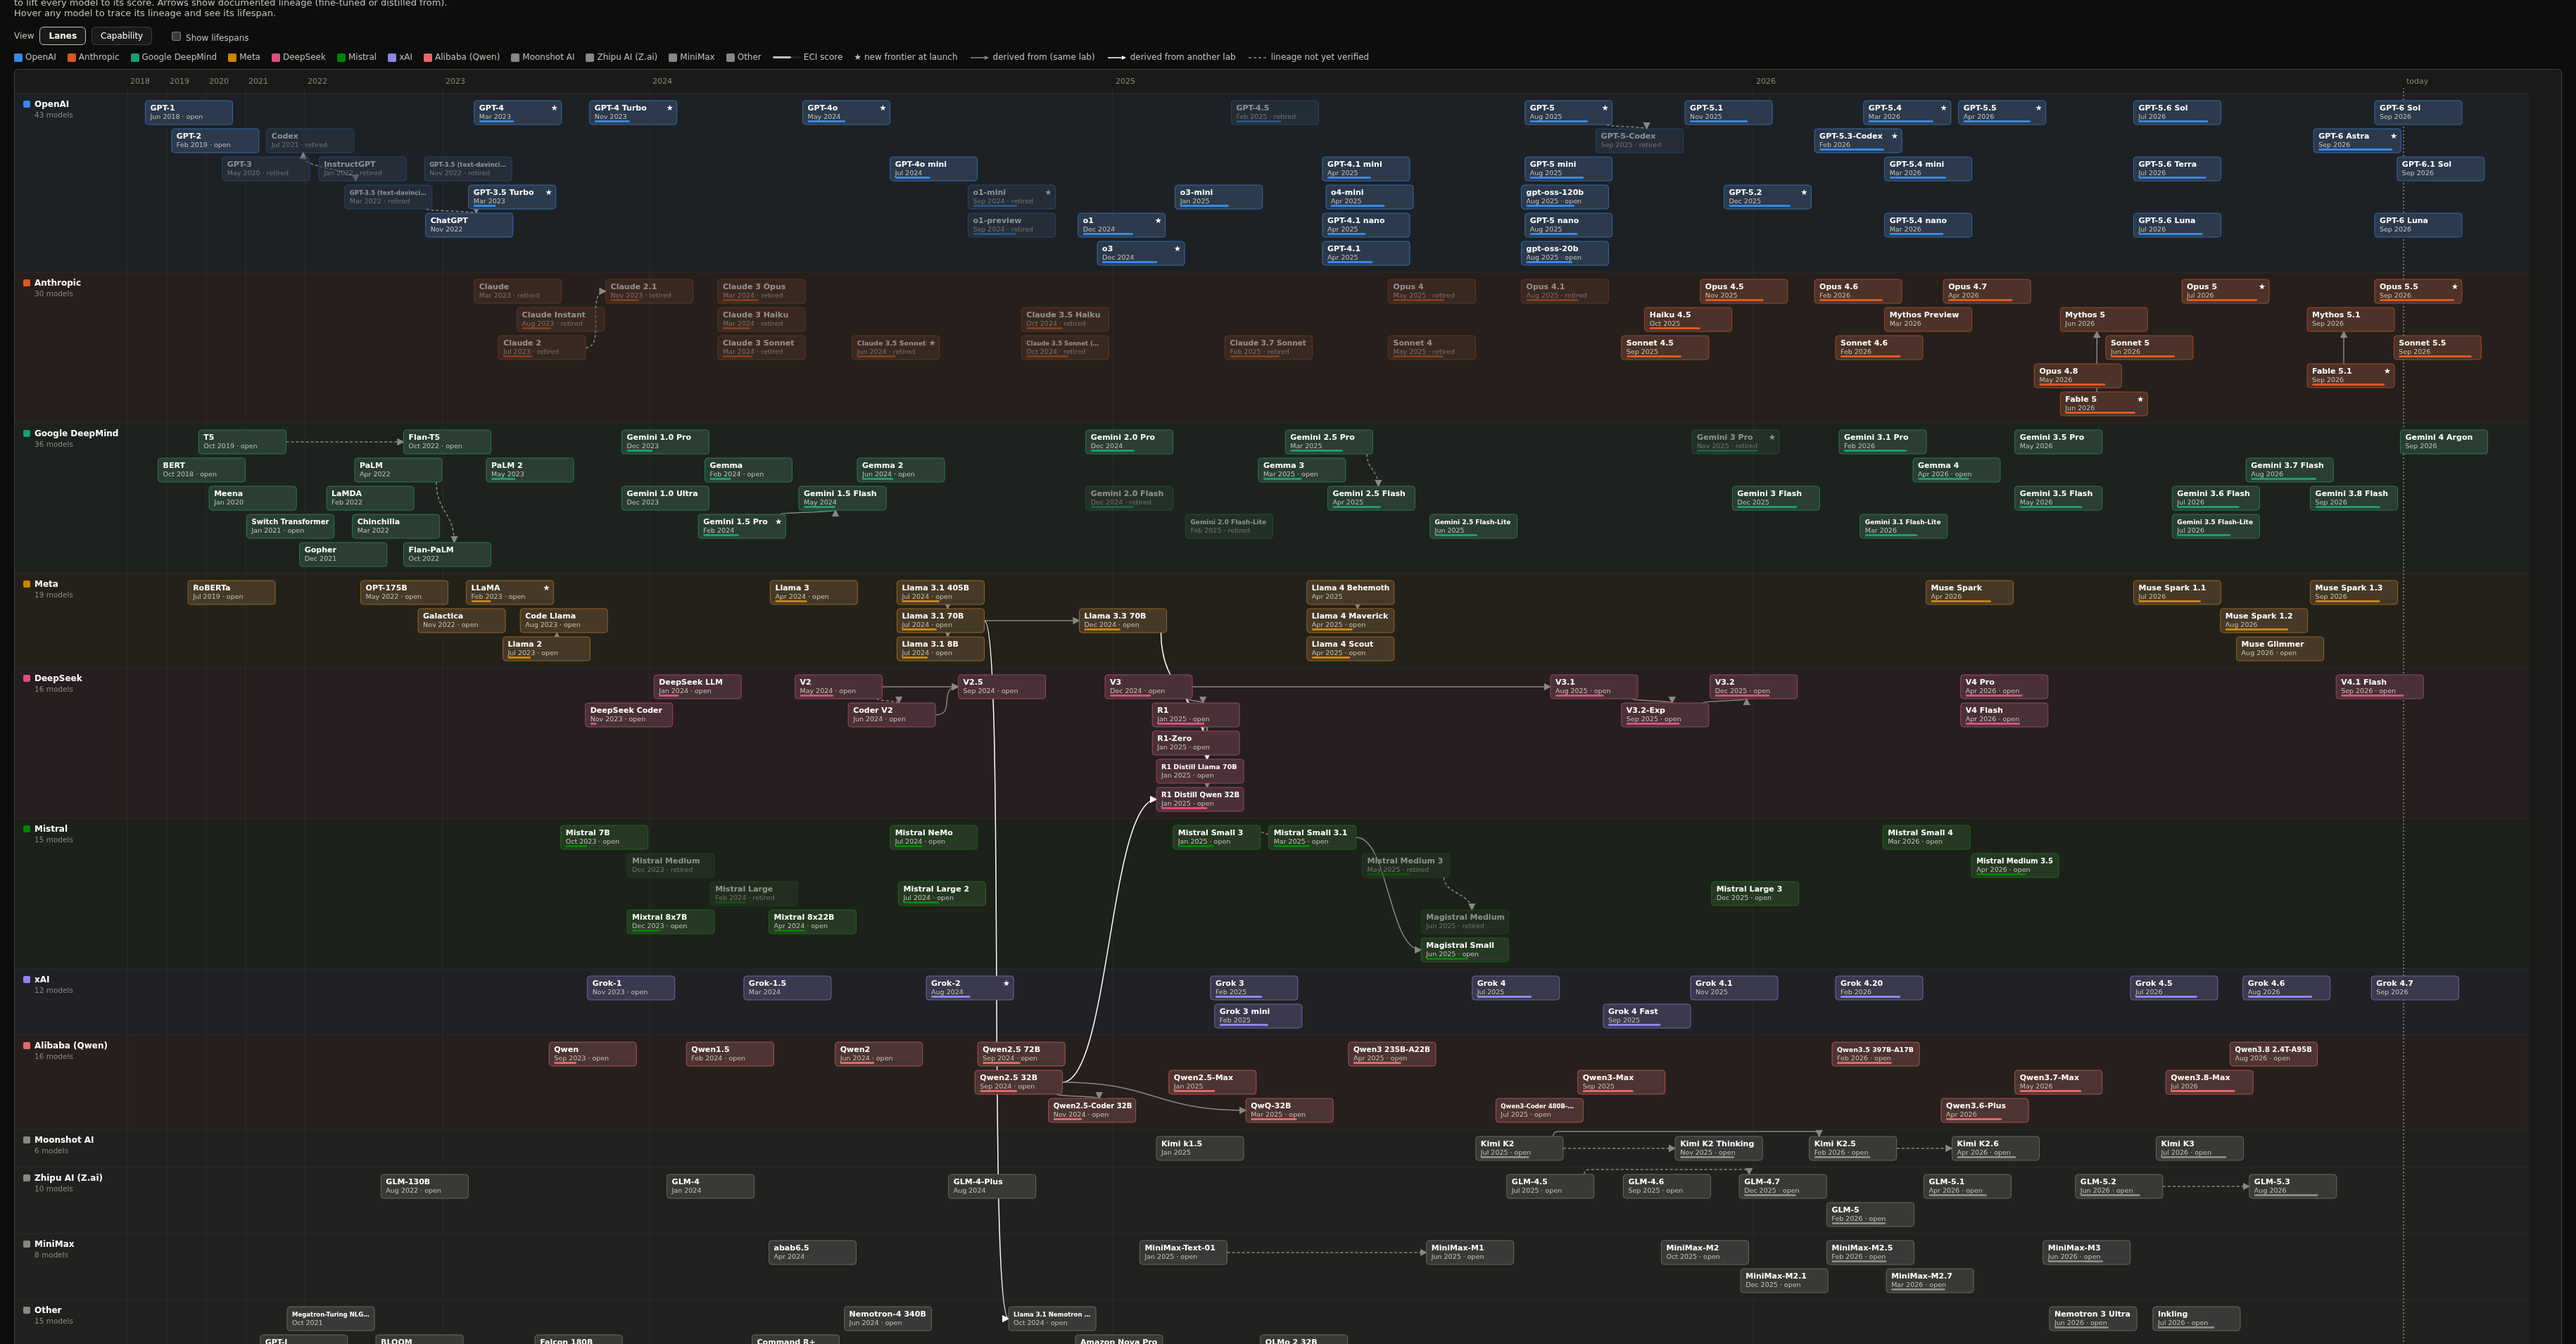
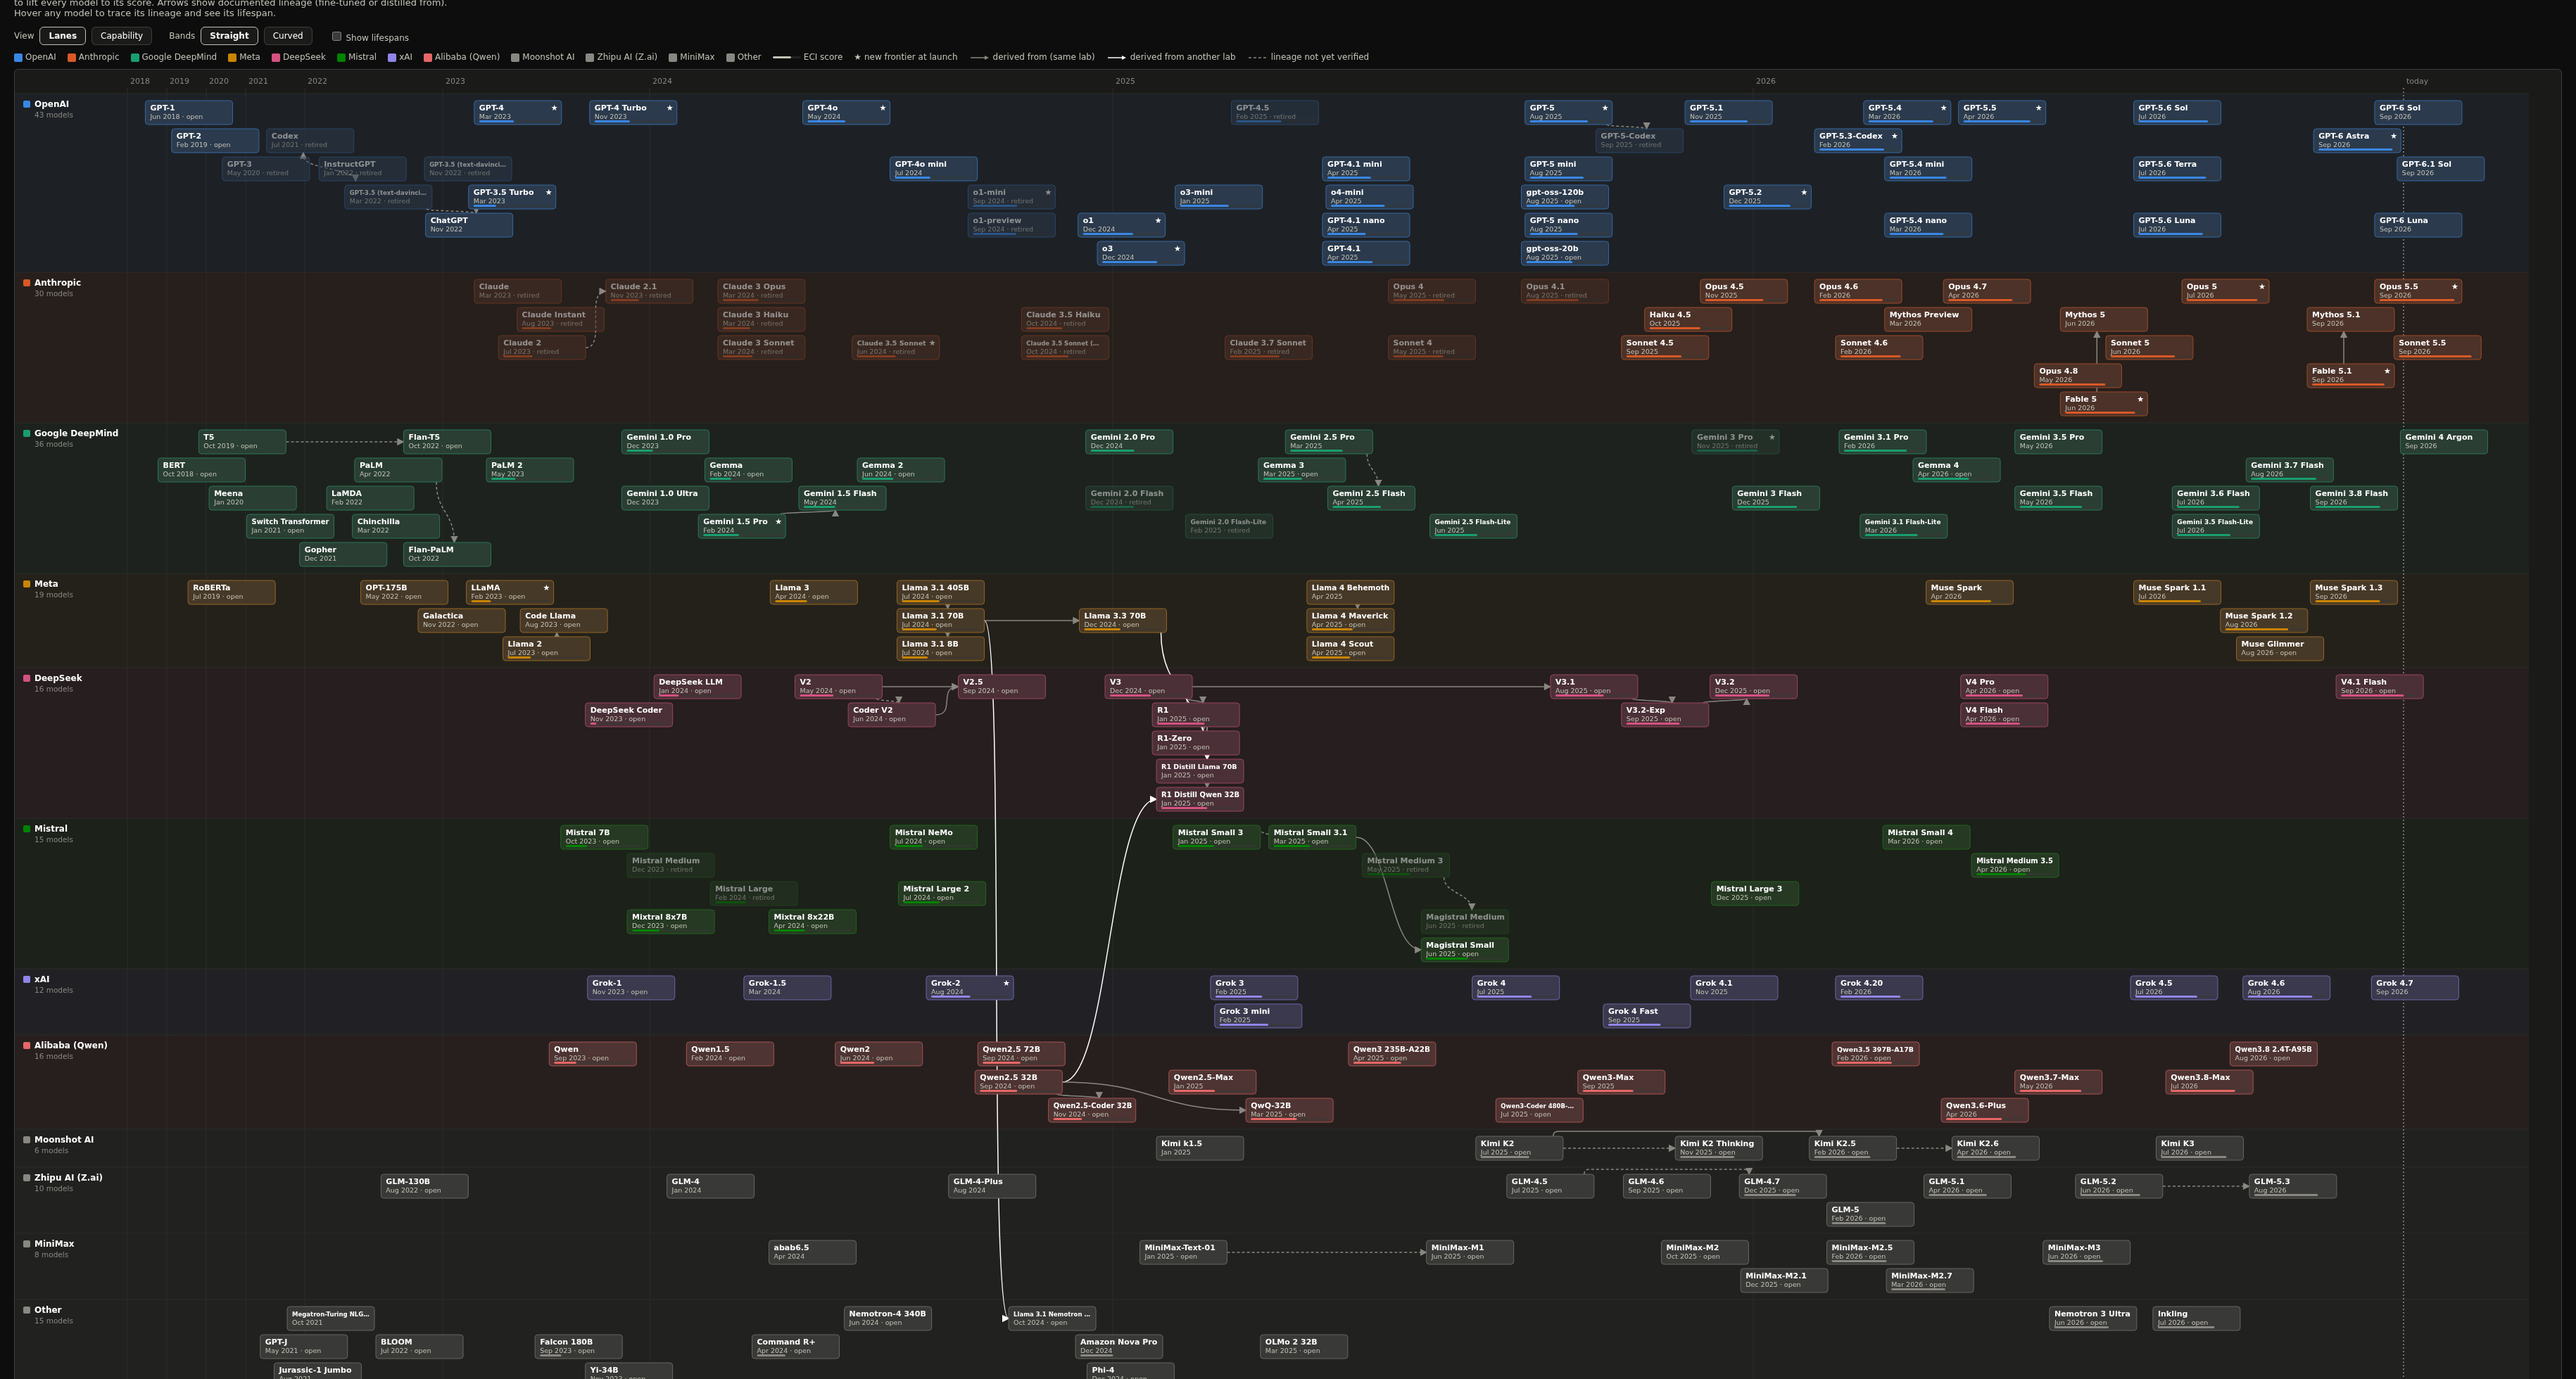
Prototype: curved lane bands that swell where a lab is busy
Each band's top is the actual bottom of the band above; boxes float up
into the free space (row order kept, so product lines follow the curve),
and the band bottom hugs its boxes, smoothed by dilate-then-blur so it
never cuts a box. 1,330px tall vs 1,934px straight. Toggle with the
Bands buttons or ?bands=straight; ?r= sets the smoothing radius.

diff --git a/prototype/boxes.html b/prototype/boxes.html
@@ -86,6 +86,14 @@ svg.show-tails .tail { opacity: .7; }
 .frontier-label, .strip-label, .axis-title { font-size: 11px; fill: var(--text-secondary); }
 .axis-title { font-weight: 700; }
 
+/* band shape */
+.bands-curved { display: none; }
+svg.curved .bands-curved { display: inline; }
+svg.curved { --lane-tint: 11%; }
+:root[data-theme="dark"] svg.curved { --lane-tint: 14%; }
+@media (prefers-color-scheme: dark) { :root:where(:not([data-theme="light"])) svg.curved { --lane-tint: 14%; } }
+.band-edge { fill: none; stroke-width: 1.5; }
+svg.curved .bands-straight { display: none; }
 /* capability mode */
 svg.cap .lane-band, svg.cap .lane-label, svg.cap .lane-count, svg.cap .tail, svg.cap.show-tails .tail { opacity: 0; }
 svg.cap .cap-only { opacity: 1; }
@@ -118,6 +126,9 @@ svg.focus .box.retired:not(.lit), svg.focus .box.unscored:not(.lit) { opacity: .
     <span>View</span>
     <button id="btn-lanes" aria-pressed="true">Lanes</button>
     <button id="btn-cap" aria-pressed="false">Capability</button>
+    <span style="margin-left:16px">Bands</span>
+    <button id="btn-straight" aria-pressed="false">Straight</button>
+    <button id="btn-curved" aria-pressed="true">Curved</button>
     <label style="margin-left:16px"><input type="checkbox" id="chk-tails"> Show lifespans</label>
   </div>
   <div class="legend" id="legend"></div>
@@ -221,6 +232,46 @@ for (const lab of data.labs) {
   y0 += h;
 }
 const HEIGHT = y0 + 12;
+for (const p of Object.values(placed)) p.ys = p.y;
+
+// ── curved bands: each band's top is the actual bottom of the band above ──
+// Sample x every STEP px. Within a band, boxes float up as far as the free space allows
+// (row 0 first, so product lines keep priority and follow the curve). The band's bottom
+// hugs its boxes and pinches to a ribbon between busy periods; smoothing = dilate by R then
+// blur within R, so the curve never cuts into a box.
+const STEP = 4, R = +(new URLSearchParams(location.search).get('r') || 120), RIBBON = 10, LABEL_T = 42;
+const NS_ = Math.ceil(WIDTH / STEP) + 1;
+const xi = v => Math.max(0, Math.min(NS_ - 1, Math.round(v / STEP)));
+const smooth = a => {
+  const r = Math.round(R / STEP), d = new Float64Array(NS_);
+  for (let i = 0; i < NS_; i++) { let m = -Infinity; for (let k = Math.max(0, i - r); k <= Math.min(NS_ - 1, i + r); k++) m = Math.max(m, a[k]); d[i] = m; }
+  // two box blurs of radius r/2: total support r, so the result stays >= the input
+  const blur = (src, h) => { const o = new Float64Array(NS_);
+    for (let i = 0; i < NS_; i++) { let s = 0, n = 0; for (let k = Math.max(0, i - h); k <= Math.min(NS_ - 1, i + h); k++) { s += src[k]; n++; } o[i] = s / n; } return o; };
+  return blur(blur(d, r >> 1), r >> 1);
+};
+const curve = { top: {}, t: {}, bottom: null };
+{
+  let upper = new Float64Array(NS_).fill(TOP);
+  for (const L of laneMeta) {
+    const id = L.lab.id;
+    const sky = upper.map(v => v + LANE_PAD);
+    const raw = upper.map(v => v + RIBBON);
+    for (let i = 0; i <= xi(LEFT); i++) raw[i] = upper[i] + LABEL_T;     // room for the label
+    const mine = Object.values(placed).filter(p => p.m.lab === id).sort((a, b) => a.row - b.row || a.x - b.x);
+    for (const p of mine) {
+      const i0 = xi(p.x), i1 = xi(p.x + BOX_W);
+      let y = -Infinity; for (let i = i0; i <= i1; i++) y = Math.max(y, sky[i]);
+      p.yc = y;
+      for (let i = i0; i <= i1; i++) { sky[i] = y + BOX_H + ROW_GAP; raw[i] = Math.max(raw[i], y + BOX_H + LANE_PAD); }
+    }
+    const bottom = smooth(raw);
+    curve.top[id] = upper; curve.t[id] = bottom.map((v, i) => v - upper[i]);
+    upper = bottom;
+  }
+  curve.bottom = upper;
+}
+const HEIGHT_CURVED = Math.ceil(Math.max(...curve.bottom)) + 12;
 
 // ── capability layout: y from ECI; unscored models in a strip at the bottom ──
 const CAP_TOP = TOP + 24, STRIP_H = 64, CAP_BOTTOM = HEIGHT - STRIP_H - 24;
@@ -237,13 +288,26 @@ const svg = document.getElementById('chart');
 svg.setAttribute('width', WIDTH); svg.setAttribute('height', HEIGHT);
 
 // lanes
+const laneFill = id => `fill: color-mix(in oklab, ${laneColor[id]} var(--lane-tint), var(--surface-1))`;
+const gStraight = el('g', { class: 'bands-straight' }, svg), gCurved = el('g', { class: 'bands-curved' }, svg);
+const laneLabel = (g, id, y, n, name) => {
+  el('rect', { x: 12, y: y + 10, width: 10, height: 10, rx: 2, class: 'lane-band', style: `fill: ${laneColor[id]}` }, g);
+  el('text', { x: 28, y: y + 19, class: 'lane-label' }, g).textContent = name;
+  el('text', { x: 28, y: y + 34, class: 'lane-count' }, g).textContent = `${n} models`;
+};
 laneMeta.forEach(L => {
-  el('rect', { x: 0, y: L.y, width: WIDTH, height: L.h, class: 'lane-band',
-    style: `fill: color-mix(in oklab, ${laneColor[L.lab.id]} var(--lane-tint), var(--surface-1))` }, svg);
-  el('line', { x1: 0, x2: WIDTH, y1: L.y, y2: L.y, class: 'gridline lane-band' }, svg);
-  el('rect', { x: 12, y: L.y + 10, width: 10, height: 10, rx: 2, class: 'lane-band', style: `fill: ${laneColor[L.lab.id]}` }, svg);
-  el('text', { x: 28, y: L.y + 19, class: 'lane-label' }, svg).textContent = L.lab.name;
-  el('text', { x: 28, y: L.y + 34, class: 'lane-count' }, svg).textContent = `${L.n} models`;
+  el('rect', { x: 0, y: L.y, width: WIDTH, height: L.h, class: 'lane-band', style: laneFill(L.lab.id) }, gStraight);
+  el('line', { x1: 0, x2: WIDTH, y1: L.y, y2: L.y, class: 'gridline lane-band' }, gStraight);
+  laneLabel(gStraight, L.lab.id, L.y, L.n, L.lab.name);
+  // curved: a filled ribbon between this lane's top and bottom curves
+  const top = curve.top[L.lab.id], t = curve.t[L.lab.id];
+  let d = `M0,${top[0]}`;
+  for (let i = 1; i < NS_; i++) d += `L${i * STEP},${top[i].toFixed(1)}`;
+  for (let i = NS_ - 1; i >= 0; i--) d += `L${i * STEP},${(top[i] + t[i]).toFixed(1)}`;
+  el('path', { d: d + 'Z', class: 'lane-band', style: laneFill(L.lab.id) }, gCurved);
+  let edge = `M0,${top[0]}`; for (let i = 1; i < NS_; i++) edge += `L${i * STEP},${top[i].toFixed(1)}`;
+  el('path', { d: edge, class: 'band-edge lane-band', style: `stroke: color-mix(in oklab, ${laneColor[L.lab.id]} 45%, var(--surface-1))` }, gCurved);
+  laneLabel(gCurved, L.lab.id, top[0], L.n, L.lab.name);
 });
 // year gridlines + today
 for (let y = 2018; y <= 2026; y++) {
@@ -294,7 +358,7 @@ for (const [id, color] of [['arrow', 'var(--muted)'], ['arrow-cross', 'var(--tex
   el('path', { d: 'M0,0 L8,4 L0,8 z', style: `fill: ${color}` }, mk);
 }
 const gTails = el('g', {}, svg), gEdges = el('g', {}, svg), gHover = el('g', {}, svg), gBoxes = el('g', {}, svg);
-for (const p of Object.values(placed)) for (const s of tailSegs(p, p.nextX - 6)) el('line', s, gTails);
+const drawTails = () => { gTails.replaceChildren(); for (const p of Object.values(placed)) for (const s of tailSegs(p, p.nextX - 6)) el('line', s, gTails); };
 
 // edges: one path per layout, swapped with the view
 const lanePath = (a, b) => {
@@ -325,7 +389,7 @@ for (const e of data.lineage) {
   (parents[e.to] ||= []).push(e.from); (children[e.from] ||= []).push(e.to);
   const cls = ['edge', a.m.lab !== b.m.lab ? 'cross' : '', e.confidence === 'confirmed' ? '' : 'soft'].join(' ');
   const path = el('path', { d: lanePath(a, b), class: cls, 'data-from': e.from, 'data-to': e.to, 'marker-end': `url(#${a.m.lab !== b.m.lab ? 'arrow-cross' : 'arrow'})` }, gEdges);
-  path._lane = lanePath(a, b); path._cap = capPath(a, b);
+  path._a = a; path._b = b; path._cap = capPath(a, b);
   el('title', {}, path).textContent = `${a.m.name} → ${b.m.name} (${e.type}, ${e.confidence})`;
 }
 
@@ -366,20 +430,29 @@ for (const t of svg.querySelectorAll('.box .name')) {
 
 // ── view switching ──
 let mode = 'lanes';
+let bands = new URLSearchParams(location.search).get('bands') === 'straight' ? 'straight' : 'curved';
 function layout() {
+  for (const p of Object.values(placed)) p.y = bands === 'curved' ? p.yc : p.ys;
+  drawTails();
+  svg.setAttribute('height', mode === 'cap' || bands === 'straight' ? HEIGHT : HEIGHT_CURVED);
+  svg.classList.toggle('curved', bands === 'curved');
+  document.getElementById('btn-straight').setAttribute('aria-pressed', bands === 'straight');
+  document.getElementById('btn-curved').setAttribute('aria-pressed', bands === 'curved');
   for (const p of Object.values(placed)) {
     const cap = mode === 'cap';
     p.g.style.transform = cap ? `translate(${p.cx - DOT / 2}px, ${p.cy - DOT / 2}px)` : `translate(${p.x}px, ${p.y}px)`;
     Object.assign(p.rect.style, cap ? { width: DOT + 'px', height: DOT + 'px', rx: DOT / 2 + 'px', ry: DOT / 2 + 'px' }
                                     : { width: BOX_W + 'px', height: BOX_H + 'px', rx: '4px', ry: '4px' });
   }
-  for (const e of gEdges.querySelectorAll('.edge')) e.setAttribute('d', mode === 'cap' ? e._cap : e._lane);
+  for (const e of gEdges.querySelectorAll('.edge')) e.setAttribute('d', mode === 'cap' ? e._cap : lanePath(e._a, e._b));
   svg.classList.toggle('cap', mode === 'cap');
   document.getElementById('btn-lanes').setAttribute('aria-pressed', mode === 'lanes');
   document.getElementById('btn-cap').setAttribute('aria-pressed', mode === 'cap');
 }
 document.getElementById('btn-lanes').onclick = () => { mode = 'lanes'; layout(); };
 document.getElementById('btn-cap').onclick = () => { mode = 'cap'; layout(); };
+document.getElementById('btn-straight').onclick = () => { bands = 'straight'; layout(); };
+document.getElementById('btn-curved').onclick = () => { bands = 'curved'; layout(); };
 document.getElementById('chk-tails').onchange = e => svg.classList.toggle('show-tails', e.target.checked);
 layout();
 
